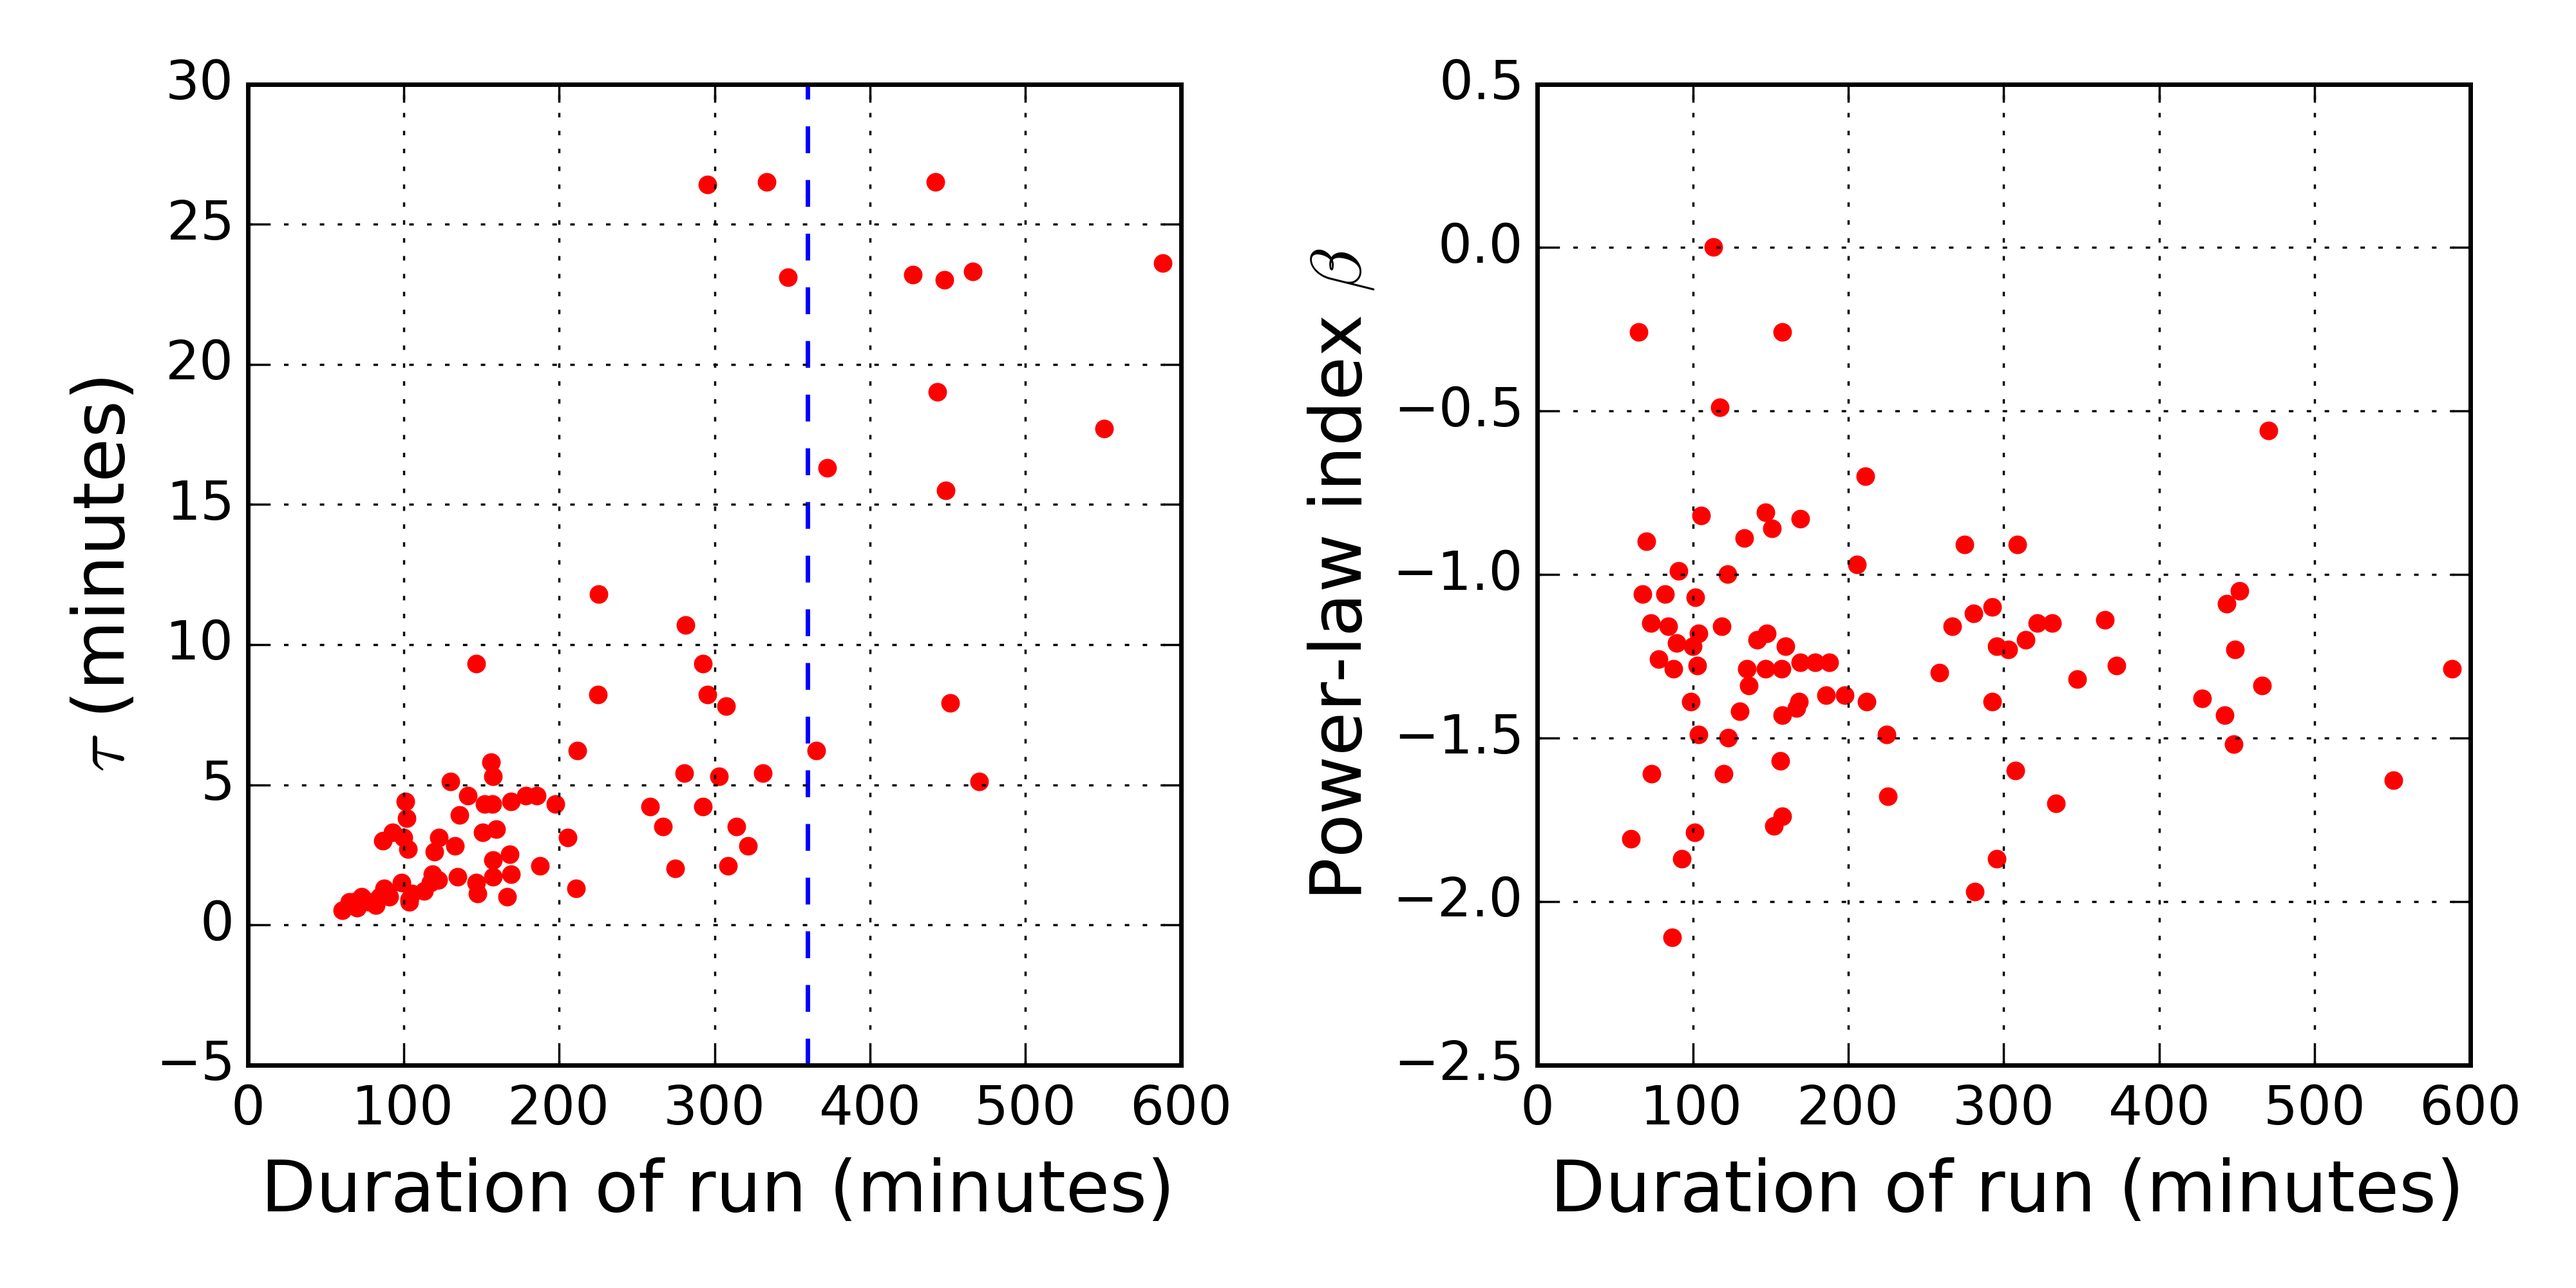
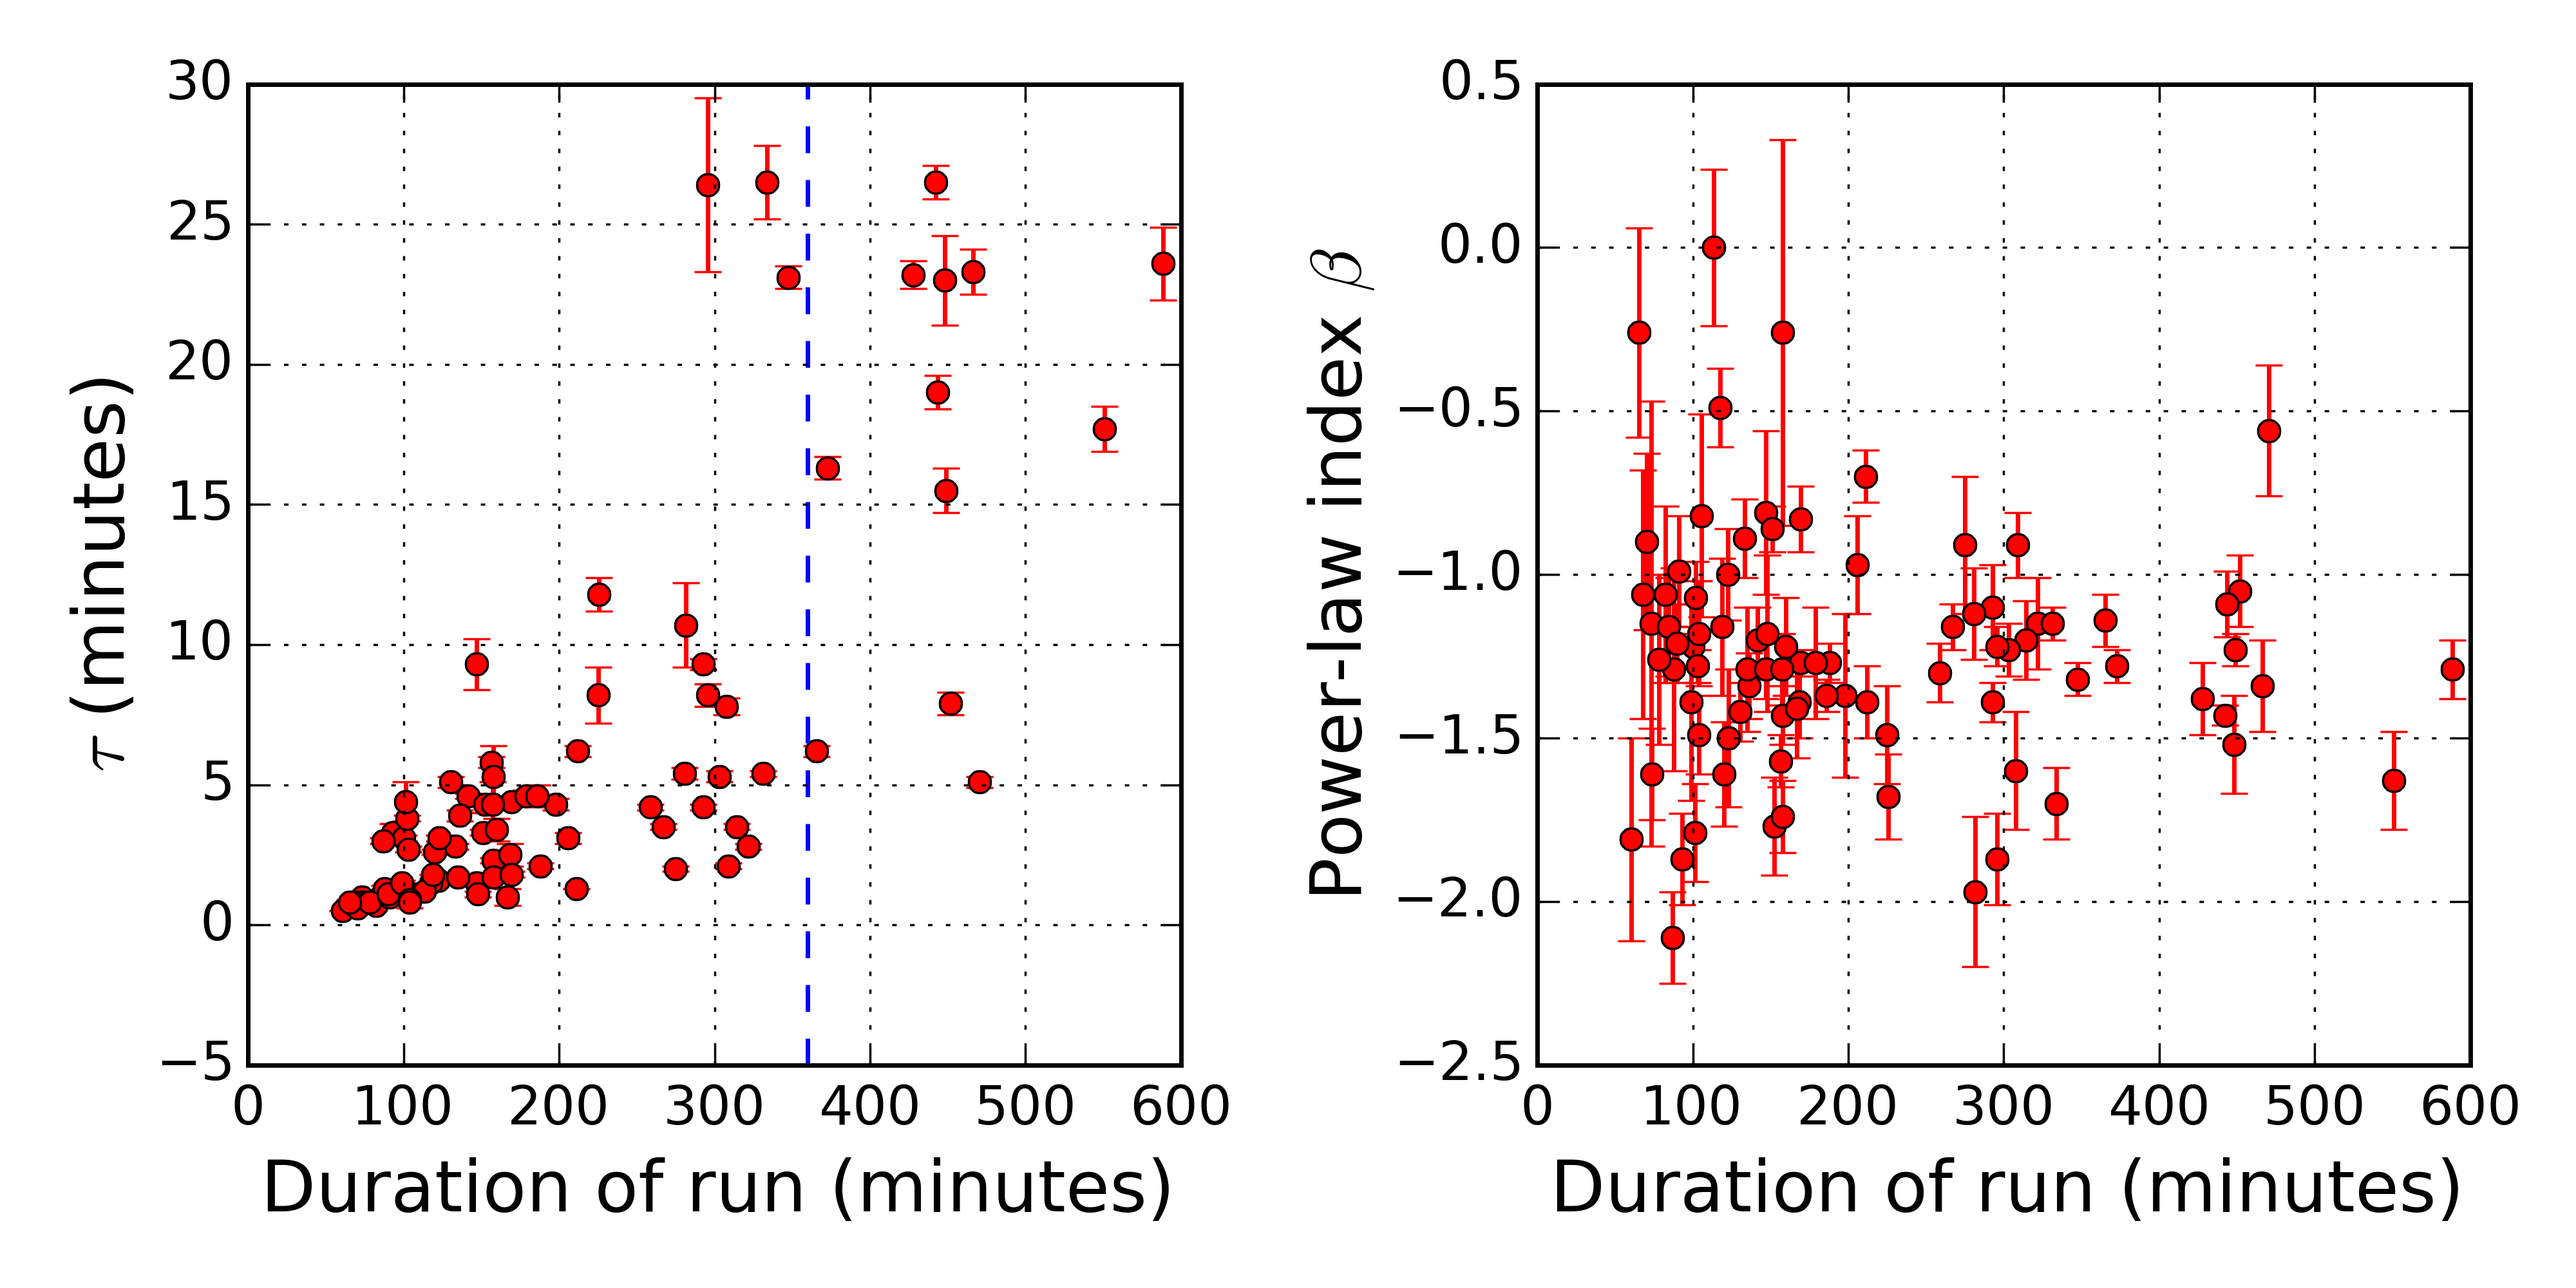
comments from AJ referee: Bo first pass

diff --git a/PSFprofile.tex b/PSFprofile.tex
@@ -8,6 +8,20 @@ scale (see, for example, \citealt{Tokovinin2002}, \citealt{Boccas2004}, and \cit
 In this section, we describe our much simpler 2-parameter fits to the SDSS PSF
 radial profiles using the \vk~atmosphere model.
 
+Our fitting of each PSF radial profile is a 2-step process. We first
+make a one-parameter fit to the core of the PSF profile (up to $\sim
+1.5$ arcsec) to determine its FWHM.
+In the second step of the fit, we model the tail of the PSF with the
+second parameter which characterizes the overall intensity of the
+tail.
+The details of the procedure are discussed in Sec.~\ref{sec:fwhm} and
+\ref{sec:instrPSF} below.
+We note that the modeling of the PSF tail is mostly for completeness.
+The focus of this study is on the FWHM behavior. The FWHM values are
+determined by the first step of the fit.
+
+\subsection{The FWHM of the PSF \label{sec:fwhm}}
+
 The seeing profile predicted by the \vk~atmosphere model is a two-parameter
 family that can be parametrized by the FWHM and the so-called outer scale
 parameter. The Kolmogorov seeing profile is a special case of the 
@@ -16,7 +30,7 @@ parameter. The Kolmogorov seeing profile is a special case of the
 In Fig.~\ref{fig:vonK} (c), the profiles with finite outer scales
 ($L_0$) are normalized to the Kolmogorov profile.
 
-Our fitting of each PSF radial profile is a 2-step process. First we fit the
+First we fit the
 measured PSF profile to a \vk~PSF with only one free parameter -
 the FWHM of the \vk~profile, while a fiducial outer scale of 30 meters
 is assumed fixed. As discernible from Fig.~\ref{fig:vonK} (a) and (c), the impact of the exact
@@ -25,7 +39,8 @@ systematic uncertainty in the normalization of the contribution of instrumental 
 discussed in \S~\ref{sec:instrPSF}  below. The \vk~PSF profile is generated by creating 
 the atmosphere structure function first, as given by Eq. (18) in \cite{Tokovinin2002},
 then calculating the PSF through the Optical Transfer Function. 
-Pixel integration is taken into account by a factor of 10 oversampling.
+The generated \vk~profile has pixel size of 0.01 arcsec.
+Pixel integration is then taken into account by a factor of 10 oversampling.
 
 Ideally, the Fried parameter $r_0$ would be used as the free
 parameter in the fit to the \vk~model. However, 
@@ -42,19 +57,24 @@ compressed to 1.0 arcsec. The three curves are seen to be almost
 indistinguishable.
 Fig.~\ref{fig:vonK} (d) shows the same three profiles when normalized
 to the one generated with FWHM of 1.0 arcsec.
+Repeating the FWHM fits, as discribed below, with these three profiles
+produces negligible difference on the results.
 
 \begin{figure}[ht]
 \centering
 \includegraphics[width=0.8\textwidth]{FIGURES/vonK.png}
 \vskip -0.2in 
 \caption{PSF radial profiles with the \vk~model for a few different
-  outer scale ($L_0$) values (left) and $r_0$ values (right). 
+  outer scale ($L_0$) values (upper left) and $r_0$ values (upper right). 
 All profiles have FWHM of 1.0 arcsec, and
   are normalized to unit peak intensity. The \vk~model becomes
   Kolmogorov when $L_0 = \infty$.
 In the right plot, the dashed and dotted profiles are created with
 $L_0 = 30$m, and 
-FWHM of 0.5 arcsec and 2.0 arcsec, respectively, then stretched and compressed to 1.0 arcsec.
+FWHM of 0.5 arcsec and 2.0 arcsec, respectively, then stretched and
+compressed to 1.0 arcsec.
+The bottom row shows the same profiles normalized to 
+$L_0 = \infty$ (lower left) and FWHM $=1.0$ arcsec (lower right), respectively.
 \label{fig:vonK}}
 \end{figure}
 
@@ -82,7 +102,7 @@ thick front-side illuminated chips are used (in all other bands, thin back-side 
 
 
 
-\subsection{Instrumental PSF \label{sec:instrPSF}} 
+\subsection{The PSF tail \label{sec:instrPSF}} 
 
 To improve the fit quality at large radii, in the second fitting step we introduce an
 empirical ``instrumental'' PSF. Despite the name, this component might also include 
@@ -186,11 +206,14 @@ we always use run 4874 as the fiducial example run.
 \end{table}
 
 
-\begin{figure}[th]
+\begin{figure}[tb]
 \centering
 \includegraphics[width=1.0\textwidth]{FIGURES/psffit.png}
 \vskip -0.3in
-\caption{Fits to the PSF radial profiles from run 4874, field 121. Symbols are SDSS data. 
+\caption{Fits to the PSF radial profiles from run 4874, field
+  121. Symbols are SDSS data. 
+We use filled circles for the first four data points which are used in
+the FWHM fits, and open circles for the rest at larger radii.
   Red dashed curves are the best one-parameter \vk~fits. Black solid curves are the red
   curve convolved with the instrumental PSF (green dot-dashed lines), where the scaling factor
   (relative normalization) 
@@ -207,7 +230,7 @@ Note that the y-axis is shown on the logarithmic scale.
 \centering
 \includegraphics[width=0.5\textwidth]{FIGURES/photometry.png}
 %\vskip -0.3in
-\caption{Encirlced energy distributions for PSF profiles from run
+\caption{Encircled energy distributions for PSF profiles from run
   4874, field 121, $r$-band, camera column 3. The black solid curve is
   for the delivered PSF with contributions from atmosphere and
   instrument.

diff --git a/FWHManalysis.tex b/FWHManalysis.tex
@@ -10,7 +10,7 @@ the $i$ band behavior, do not matter here because we focus only on the FWHM beha
 \subsection{The FWHM dependence on wavelength} 
 
 The Kolmogorov turbulence theory gives a standard formula for the FWHM of a long-exposure
-seeing-limited PSF in a large telescope,
+seeing-limited PSF in a large telescope~\citep{Roddier1981},
 \begin{equation}
 \textrm{FWHM}^{\rm Kolm}(\lambda, X) = \frac{0.976\lambda}{r_0(\lambda,X)},
 \label{eq:fwhmkolm}
@@ -113,7 +113,7 @@ The data points are overlaid with curves predicted by the
 \vk~model, with $L_0$ varying from 2 m to infinity.
 The data clearly deviate from the Kolmogorov model prediction, which is
 the horizontal line at $\alpha = -0.20$, with an infinite $L_0$.
-For example, for LSST's fiducial FWHM of 0.6 arcsec and the commonly assumed 
+For LSST's fiducial FWHM of 0.6 arcsec and the commonly assumed 
 $L_0 = 30$ m, the \vk~model predicts an $\alpha$ value close to $-0.31$.
 
 
@@ -281,7 +281,7 @@ is larger than the value appropriate for damped random walk ($\beta = -2$).
 \begin{figure}[th]
 \centering
 \includegraphics[width=0.7\textwidth]{FIGURES/fdt.png}
-\caption{Left: The average normalized seeing difference, $<f(\Delta t)>$, as
+\caption{Left: The average normalized seeing difference, $\langle f(\Delta t)\rangle$, as
   a function of the time separation, $\Delta t$, for run 4874, camera
    column 1, in the $r$-band. The fit to Eq.~(\ref{eq:fdt}) gives $f(\Delta t) ^\infty =  
    0.088\pm0.005$, $\tau = 45.1\pm10.3$ minutes and $\gamma$ =
@@ -306,7 +306,7 @@ structure-function-like quantity
 \end{equation} 
 where $\theta$ is seeing. We then fit the mean value of $f(\Delta t)$ to 
 \begin{equation}
-    < f(\Delta t) > =  f(\Delta t) ^\infty \, \left( 1 - \exp[-(\Delta
+    \langle f(\Delta t) \rangle =  f(\Delta t) ^\infty \, \left( 1 - \exp[-(\Delta
       t/\tau)^\gamma] \right)^{1/2},
 \label{eq:fdt}
 \end{equation} 

diff --git a/analysis/source/draw_1run_1field_vK_2G.py b/analysis/source/draw_1run_1field_vK_2G.py
@@ -63,7 +63,7 @@ def main():
     if args.fitab:
         outputFile = 'data/tailPar.txt'
         fidw = open(outputFile, 'w')
-    for camcol in range(1, nCamcol + 1): #(2,3): #
+    for camcol in  range(1, nCamcol + 1): ## range(2,3): #
         print('running on camcol#%d' % camcol)
         datafile = outdir + "photoField-%06d-%d.fits" % (run, camcol)
 
@@ -75,7 +75,7 @@ def main():
             sys.exit()
         hdu1 = hdulist[1].data
 
-        for iBand in range(0, nBand): # (3,4): #
+        for iBand in range(0, nBand): # range(3,4):# 
 
             psf = sdsspsf(hdu1, args.ifield, iBand, run, camcol)
             psf.tailP = tailPar[iBand*nCamcol + camcol-1]
@@ -123,8 +123,12 @@ def main():
                 lower_error = 10**(psf.OKprofile)-10**(psf.OKprofile-psf.OKprofileErr)
                 upper_error = 10**(psf.OKprofile+psf.OKprofileErr)-10**(psf.OKprofile)
                 asymmetric_error = [lower_error, upper_error]
-                ax1[iBand, camcol - 1].errorbar(psf.OKprofRadii, 10**psf.OKprofile,
-                                                asymmetric_error, fmt='ok')
+                ax1[iBand, camcol - 1].errorbar(psf.OKprofRadii[:4], 10**psf.OKprofile[:4],
+                                                [lower_error[:4], upper_error[:4]],fmt='ok')
+                                                    
+                ax1[iBand, camcol - 1].errorbar(psf.OKprofRadii[4:], 10**psf.OKprofile[4:],
+                                                [lower_error[4:], upper_error[4:]],
+                                                marker='o',linewidth = 0, color='k',markersize = 5, markeredgewidth=1, markerfacecolor='none')
                 if args.yscale == 'log':
                     ax1[iBand, camcol - 1].set_xlim(0, 30.0)
                     ax1[iBand, camcol - 1].set_ylim(1e-6, 10**0.5)

diff --git a/conclusions.tex b/conclusions.tex
@@ -18,14 +18,17 @@ than six as in SDSS pipeline (of course, the SDSS image processing pipeline had
 to be designed with adequate flexibility to be able to efficiently and robustly 
 handle various unanticipated behavior). We find that the PSF radial profile is well 
 described by theoretical predictions based on both 
-Kolmogorov and \vk's turbulence theory (see Fig.~\ref{fig:psffit}). Given the extra 
+Kolmogorov and \vk's turbulence theory. 
+%(see Fig.~\ref{fig:psffit}). 
+Given the extra 
 degree of freedom due to the instrumental PSF, the shape of the
 measured radial profile alone 
 is insufficient to reliably rule out either of the two theoretical profiles.  
 
 We report empirical evidence that the wavelength dependence of the atmospheric 
 seeing and its correlation with the seeing itself agrees better with the \vk~model 
-than the Kolmogorov turbulence theory (see Fig.~\ref{fig:alpha_fwhm}). For example, 
+than the Kolmogorov turbulence theory (see
+Fig.~\ref{fig:alpha_fwhm}). The \vk~model predicts that 
 the best-fit power-law index to describe the seeing wavelength dependence in conditions 
 representative for LSST survey is much closer to $-0.3$ than to the usually assumed value
 of $-0.2$ predicted by the Kolmogorov theory. 

diff --git a/analysis/source/sdsspsf.py b/analysis/source/sdsspsf.py
@@ -392,8 +392,9 @@ class sdsspsf(object):
             self.tailEta = popt[0]
             self.tailA = popt[1]
             self.tailB = popt[2]
-            print('From fit: tailA = %.1f, tailB = %.1f\n'%(self.tailA*1e4, self.tailB*1e2))
-
+            print('From fit: tailA = %.1e, tailB = %.1e\n'%(self.tailA, self.tailB))
+            print('uncertainties: tailA = %.1e, tailB = %.1e\n'%(np.sqrt(pcov[1,1]), np.sqrt(pcov[2,2])))
+            
             newN = convVonKAB2D(vonK2D, grid1d, self.scaleR,
                               self.scaleV, self.tailEta, self.tailA, self.tailB)
             m = int((len(grid1d) - 1) / 2)
@@ -402,6 +403,10 @@ class sdsspsf(object):
             m2 = max(np.argmax(newN == np.max(newN), axis=1))
             self.vv = newN[m1, m2:m2 + m + 1]
 
+            G12d = 10**(self.tailEta*(self.tailA*self.vR*self.vR+self.tailB*self.vR+1))
+            sigma = 0.1
+            self.vtail = np.exp(-(self.vR**2) / 2 / sigma**2) + G12d
+            
             yy = logConvVonKAB(vonK2D, grid1d, self.OKprofRadii, self.scaleR, self.scaleV,
                           self.tailEta, self.tailA, self.tailB)
             self.chi2 = sum(((yy - self.OKprofile) / errLog)

diff --git a/analysis/source/correlate_temporal_sf_plot.py b/analysis/source/correlate_temporal_sf_plot.py
@@ -262,7 +262,7 @@ def main():
                     #        (run, sdss.band[band], camcol))
                     ax0.grid()
                     ax0.set_xlabel(r'$\Delta t$ (minutes)')
-                    ax0.set_ylabel(r'$<f(\Delta t)>$')
+                    ax0.set_ylabel(r'$\langle f(\Delta t) \rangle$')
                     # plt.show()
 
         w = 1/tauerrAll**2
@@ -286,11 +286,14 @@ def main():
         totalT = a[:, 1]*36/60
         tau = a[:, 2]
         tauerr = a[:, 3]
+        gamma = a[:, 4]
+        gammaerr = a[:, 5]
         
-        idx = (totalT>0) * (1.5*tau < totalT) * (tau != 0)
+        idx = (totalT>0) * ~np.isnan(tau) * (tau != 0) *(gamma != 0)  * (1.5*tau < totalT) * (tau<120)
 
         #plot tau
-        ax1.scatter(totalT[idx], tau[idx], s=10, c='r', edgecolors='r')
+        #ax1.scatter(totalT[idx], tau[idx], s=10, c='r', edgecolors='r')
+        ax1.errorbar(totalT[idx], tau[idx],  [tauerr[idx], tauerr[idx]], fmt='or', markersize=5)
         ax1.grid()
         ax1.set_ylabel(r'$\tau$ (minutes)', {'fontsize': 16})
         ax1.set_xlabel('Duration of run (minutes)', {'fontsize': 16})

diff --git a/data_overview.tex b/data_overview.tex
@@ -57,5 +57,6 @@ the Moffat function,
 The measured PSFs are thus modeled using 6 free parameters ($\sigma_1$, $\sigma_2$, $\sigma_P$,
 $b$, $p_0$ and $\beta$), and the best-fit parameters are reported in the psField files. 
 Given that the measured profiles include only up to 10 data points, the fits are usually excellent
-although they do not appear very robust (for examples of bad fits see Fig.~\ref{fig:psffit}). 
+although they do not appear very robust (for examples of bad fits see Sec.~\ref{sec:psffit}).
+%Fig.~\ref{fig:psffit}). 
 

diff --git a/sdsspsf.tex b/sdsspsf.tex
@@ -298,7 +298,7 @@ behavior of the temporal variations of atmospheric seeing.
 \input{data_overview} 
 
 
-\section{The PSF profile analysis}
+\section{The PSF profile analysis \label{sec:psffit}}
 
 \input{PSFprofile} 
 
